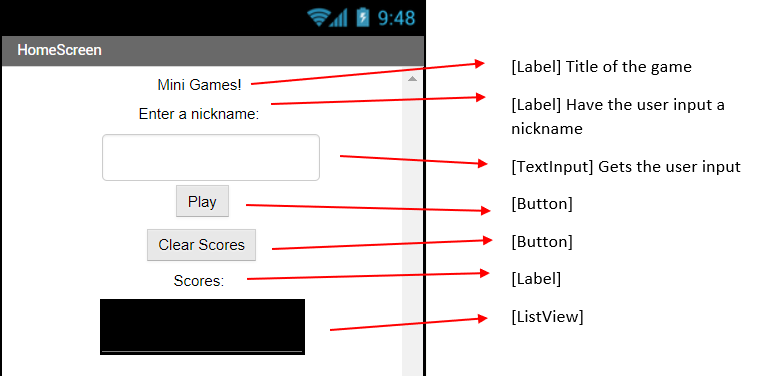
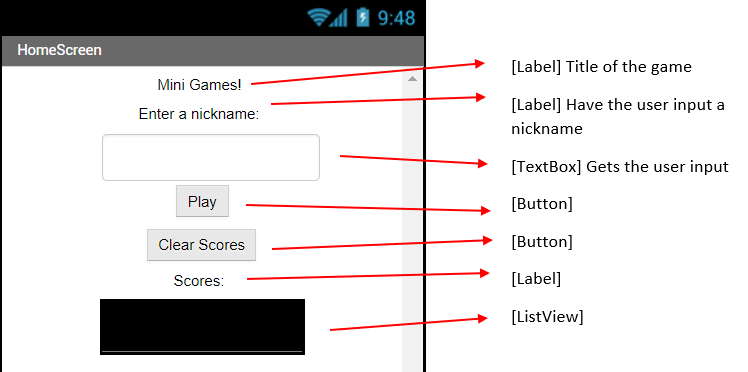
Creates assets/text.png
Auto commit by GitBook Editor

diff --git a/en/a-home-screen.md b/en/a-home-screen.md
@@ -15,3 +15,12 @@
     ![](/assets/homescreen.png)
     
     Note: You can make your layout look however you want, this is just what I did!
+    
+6. Time to add some code to your home screen. Open the blocks editor on the top right of the browser window.
+
+7. You'll make the scoring display later, don't worry about it right now. Get the **When [button] .Click** code block and put two **call [TinyDB] .StoreValue** code blocks inside of it.
+
+ 8. Add a blank **Text** block to the tag of the first **.StoreValue** block. Put "name" in the **Text** block. To get user input, the block you need will be under the **TextBox** and looks like this: ![](/assets/text.png) 
+ That's it! You just stored the users input in a database.
+ 
+9.To finish up the block 
